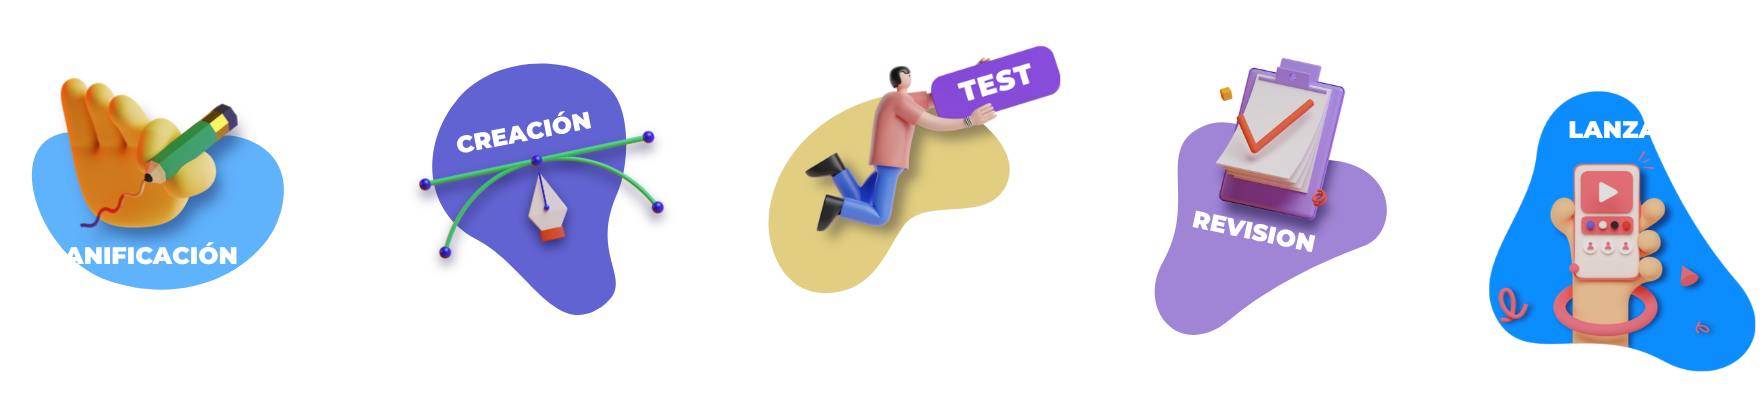
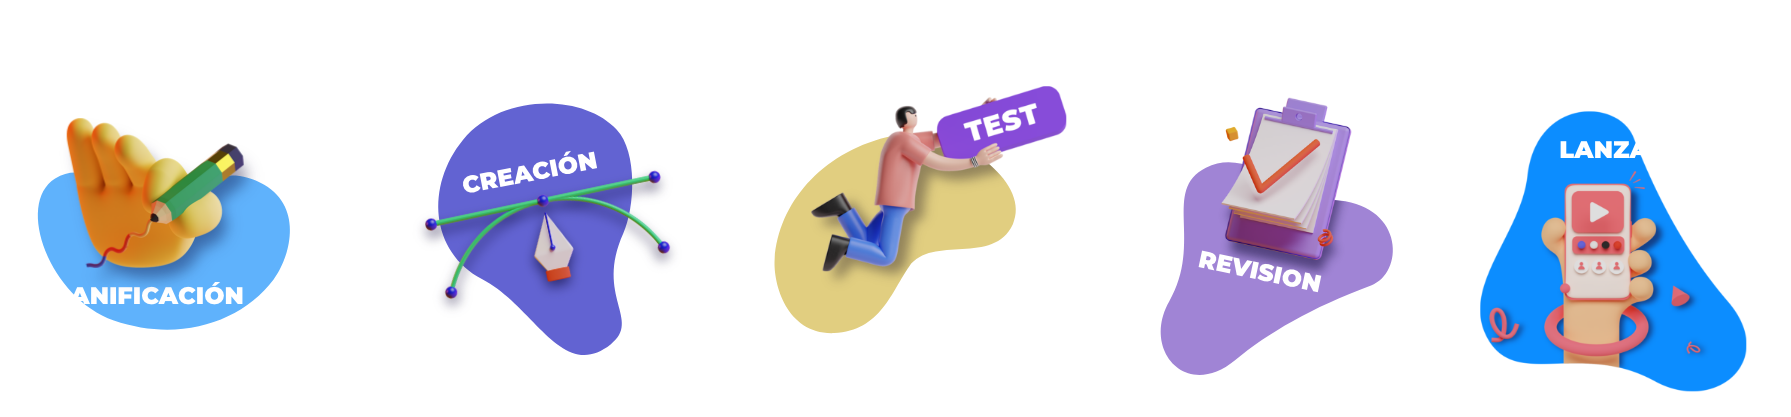
ajustes procesos

diff --git a/css/main.css b/css/main.css
@@ -79,6 +79,9 @@ la pantalla */
   .gradient-proyectos img {
     margin-top: 15%;
     width: 100%; }
+  .gradient-procesos img {
+    margin-top: 6%;
+    width: 80%; }
   .navbar {
     display: none; }
   .btn-burger {
@@ -116,6 +119,9 @@ la pantalla */
     margin-top: 20%;
     margin-bottom: 5%;
     width: 100%; }
+  .gradient-procesos img {
+    margin-top: 6%;
+    width: 80%; }
   .navbar {
     display: none; }
   .btn-burger {
@@ -152,6 +158,9 @@ la pantalla */
   .gradient-proyectos img {
     margin-top: 10%;
     width: 100%; }
+  .gradient-procesos img {
+    margin-top: 6%;
+    width: 80%; }
   .navbar {
     display: none; }
   .btn-burger {
@@ -188,6 +197,9 @@ la pantalla */
   .gradient-proyectos img {
     margin-top: 35%;
     width: 100%; }
+  .gradient-procesos img {
+    margin-top: 6%;
+    width: 80%; }
   .btn-burger {
     display: none; } }
 
@@ -222,6 +234,12 @@ la pantalla */
   .gradient-proyectos img {
     margin-top: 30%;
     width: 100%; }
+  .gradient-proyectos {
+    min-height: 100vh;
+    width: 100%; }
+  .gradient-procesos img {
+    margin-top: 6%;
+    width: 80%; }
   .btn-burger {
     display: none; } }
 
@@ -273,15 +291,19 @@ header {
   font-size: 12px;
   font-weight: 800;
   padding-left: 20px;
-  padding-right: 20px; }
+  padding-right: 20px;
+  margin-left: 5px;
+  margin-right: 5px; }
 
 .navbar li:hover {
-  font-weight: 800;
   font-size: 12px;
+  font-weight: 800;
   background-color: #fff;
   border-radius: 30px;
   padding-left: 20px;
-  padding-right: 20px; }
+  padding-right: 20px;
+  margin-left: 5px;
+  margin-right: 5px; }
 
 .header-list {
   display: flex;

diff --git a/scss/base/_mediaq.scss b/scss/base/_mediaq.scss
@@ -54,6 +54,11 @@ la pantalla */
           width: 100%;
      }
 
+     .gradient-procesos img{
+          margin-top: 6%;
+          width: 80%;
+     }
+
     .navbar{
          display: none;  
     }
@@ -115,6 +120,11 @@ la pantalla */
           margin-top: 20%;
           margin-bottom: 5%;
           width: 100%;
+     }
+
+     .gradient-procesos img{
+          margin-top: 6%;
+          width: 80%;
      }
 
     .navbar{
@@ -179,6 +189,11 @@ la pantalla */
           width: 100%;
      }
 
+     .gradient-procesos img{
+          margin-top: 6%;
+          width: 80%;
+     }
+
     .navbar {
          display: none;  
     }
@@ -241,6 +256,11 @@ la pantalla */
           width: 100%;
      }
 
+     .gradient-procesos img{
+          margin-top: 6%;
+          width: 80%;
+     }
+
     .btn-burger{
      display: none;    
     }    
@@ -297,6 +317,16 @@ la pantalla */
      .gradient-proyectos img{
           margin-top: 30%;
           width: 100%;
+     }
+
+     .gradient-proyectos{
+          min-height: 100vh;
+          width: 100%;
+     }
+
+     .gradient-procesos img{
+          margin-top: 6%;
+          width: 80%;
      }
 
     .btn-burger{

diff --git a/index.html b/index.html
@@ -75,7 +75,7 @@
                                 <div class="numeros">01</div>
                                 <h1 class="mt-3">AYUDAMOS A PERSONAS A CREAR ESTRATEGIAS DIGITALES.</h1>
                                 <p class="mt-3">Somos creadores digitales, vivimos y disfrutamos del ambiente online. 
-                                    Nos especializamos en diseñar y desarrollar sitios y aplicaciones web a la medida.
+                                    Nos especializamos en diseñar, desarrollar sitios y aplicaciones web a la medida.
                                 </p>
                             </div>
                         </div>

diff --git a/scss/base/_header.scss b/scss/base/_header.scss
@@ -21,18 +21,21 @@ header {
     font-weight: 800;
     padding-left: 20px;
     padding-right: 20px;
+    margin-left: 5px;
+    margin-right: 5px;
 }
 
 .navbar li:hover{
-    font-weight: 800;
     // background: transparent;
-    // border: 2px solid;
     // color: #fff;
     font-size: 12px;
+    font-weight: 800;
     background-color: #fff;
     border-radius: 30px;
     padding-left: 20px;
     padding-right: 20px;
+    margin-left: 5px;
+    margin-right: 5px;
 }
 
 .header-list{

diff --git a/scss/base/_principales.scss b/scss/base/_principales.scss
@@ -22,7 +22,6 @@
 
 }
 
-
 .content-wrapper img {
     display: flex;
    flex-direction: column;
